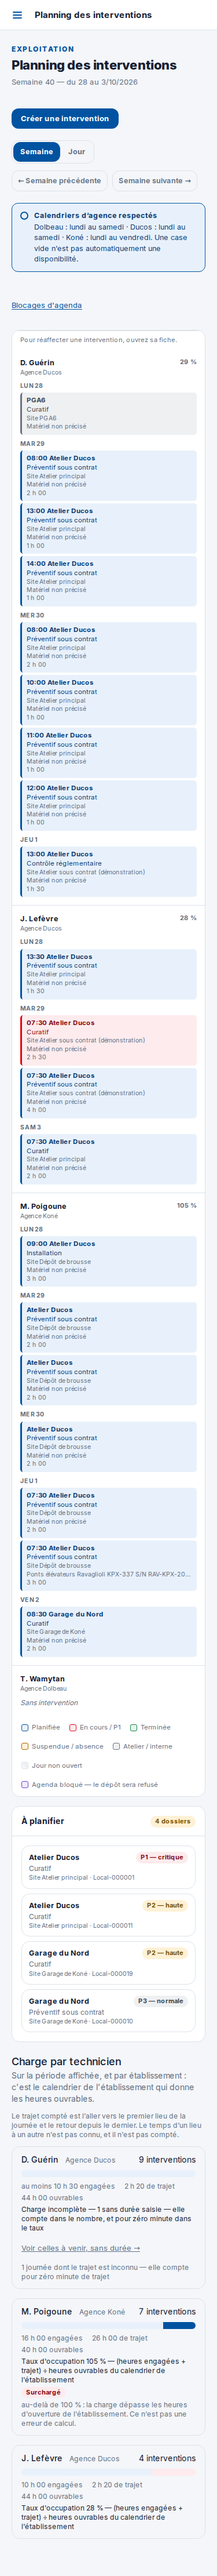
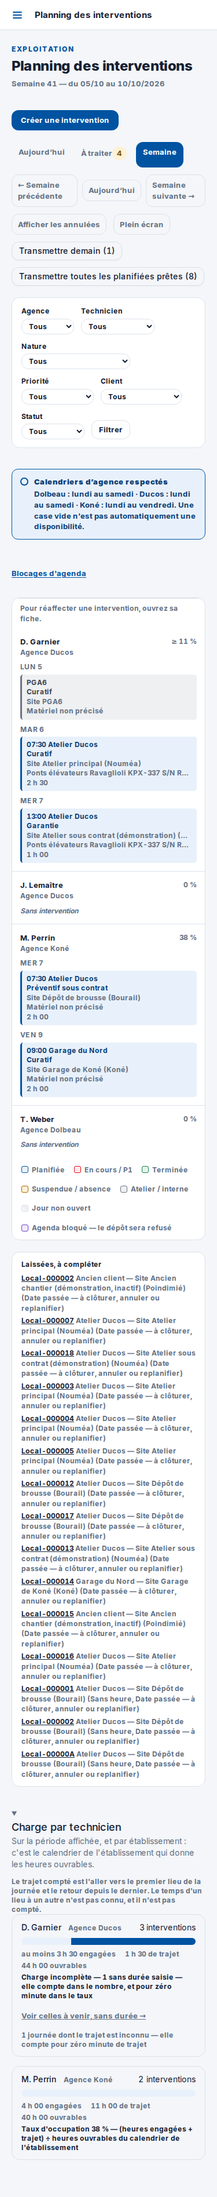
9D0-E2E-PGA6-DIMANCHE — le spec vise la semaine Nouméa, pas la date UTC
captures-pg-a6-libelle-sans-duree.spec.ts posait son intervention sur la
date UTC du jour puis ouvrait /planning sans ?semaine=, qui retombe sur la
semaine courante à Nouméa : depuis dimanche ~11:00 Nouméa (00:00 UTC),
l'intervention tombait hors de la fenêtre lundi-samedi affichée, sansDuree
ne la comptait plus, et le lien « sans durée » du panneau de charge
n'était pas rendu — rouge chaque dimanche, bloquant toute publication.

Le spec pose désormais l'intervention sur le prochain jour ouvert de
l'agence DUCOS à partir d'aujourd'hui à Nouméa (chargerCalendrierAgence +
prochainJourOuvert, horizon 15 jours) et ouvre explicitement
/planning?semaine=<lundi de cette semaine>. Aucune assertion changée,
aucun code applicatif touché. Captures APRÈS régénérées sur le spec
corrigé ; AVANT inchangées (code d'un ticket antérieur).

Reproduit et corrigé un dimanche réel (2026-10-04) ; pnpm verify,
test:e2e complet (821 passed, 7 skipped), feries:horizon et
audit:partitions tous rejoués verts le même jour.

Changed region(s): [[0.0587, 0.0, 0.9093, 0.996], [0.7333, 0.1245, 0.792, 0.1556], [0.88, 0.1245, 0.9093, 0.1556]]

diff --git a/tests/e2e/captures-pg-a6-libelle-sans-duree.spec.ts b/tests/e2e/captures-pg-a6-libelle-sans-duree.spec.ts
@@ -4,6 +4,17 @@ import { join } from "node:path";
 import { PrismaClient } from "@prisma/client";
 import { expect, test, type Page } from "@playwright/test";
 
+import {
+  cleJour,
+  chargerCalendrierAgence,
+  jourDe,
+  jourSuivant,
+  lundiDeLaSemaine,
+  maintenant,
+  prochainJourOuvert,
+  type Calendrier,
+  type JourLocal,
+} from "@/lib/calendar";
 import { fr } from "@/lib/i18n";
 import { uuidv7 } from "@/lib/db/uuid";
 
@@ -19,11 +30,15 @@ import { urlAdministration } from "./setup/base";
  * `captures-pg-a3a-messages-pose.spec.ts` : AVANT sur le code d'avant ce
  * ticket (`git worktree`), APRÈS sur le code livré.
  *
- * SA PROPRE SCÈNE, PRÉFIXÉE `PGA6-` — une intervention `planifiee`
- * AUJOURD'HUI, affectée à un technicien du semis, sans créneau ni durée
- * estimée : elle compte à la fois dans la tuile du tableau de bord (date
- * `>= aujourd'hui`) et dans le panneau de charge de la SEMAINE courante du
- * planning (`sansDuree` de `occupationTechnicien`).
+ * SA PROPRE SCÈNE, PRÉFIXÉE `PGA6-` — une intervention `a_planifier`, posée
+ * sur le PROCHAIN JOUR OUVERT de l'agence DUCOS à partir d'aujourd'hui à
+ * Nouméa (jamais le jour UTC : le dimanche à Nouméa, minuit UTC est déjà
+ * passé, et une date UTC sortirait de la semaine ouverte par `/planning` —
+ * 9D0-E2E-PGA6-DIMANCHE), affectée à un technicien du semis, sans créneau ni
+ * durée estimée : elle compte à la fois dans la tuile du tableau de bord
+ * (date `>= aujourd'hui`) et dans le panneau de charge de LA SEMAINE DE CE
+ * JOUR du planning, ouverte explicitement par `?semaine=` (`sansDuree` de
+ * `occupationTechnicien`).
  */
 test.describe.configure({ mode: "serial" });
 
@@ -32,6 +47,13 @@ const DOSSIER = process.env.CAPTURES_PG_A6 ?? "";
 const CLIENT_PGA6 = uuidv7();
 const SITE_PGA6 = uuidv7();
 const INTERVENTION_PGA6 = uuidv7();
+
+/**
+ * Le lundi de la semaine du jour visé — ouvert explicitement par `?semaine=`
+ * au test 2, puisque le dimanche à Nouméa, la semaine COURANTE (sans
+ * paramètre) retomberait sur la précédente (9D0-E2E-PGA6-DIMANCHE).
+ */
+let LUNDI_SEMAINE: JourLocal;
 
 function admin(): PrismaClient {
   return new PrismaClient({
@@ -47,6 +69,22 @@ test.beforeAll(async () => {
       where: { societe_id: reperes.societeId, code: "DUCOS" },
       select: { id: true },
     });
+    const aujourdhui = jourDe(maintenant(reperes.fuseau).local);
+    const horizonJours = 15;
+    const calendrier: Calendrier | null = await chargerCalendrierAgence(
+      client,
+      {
+        societeId: reperes.societeId,
+        agenceId: agence.id,
+        fenetre: { du: aujourdhui, au: jourSuivant(aujourdhui, horizonJours) },
+      },
+    );
+    const jourIntervention = prochainJourOuvert(
+      calendrier === null ? [] : [calendrier],
+      aujourdhui,
+      horizonJours,
+    );
+    LUNDI_SEMAINE = lundiDeLaSemaine(jourIntervention);
     await client.client.create({
       data: {
         id: CLIENT_PGA6,
@@ -64,14 +102,6 @@ test.beforeAll(async () => {
         libelle: "PGA6",
       },
     });
-    const aujourdhui = new Date();
-    const jour = new Date(
-      Date.UTC(
-        aujourdhui.getUTCFullYear(),
-        aujourdhui.getUTCMonth(),
-        aujourdhui.getUTCDate(),
-      ),
-    );
     await client.$executeRawUnsafe(
       `INSERT INTO "intervention" ("id", "societe_id", "agence_id", "client_id", "site_id",
          "technicien_id", "type", "priorite", "statut", "date_planifiee",
@@ -84,7 +114,7 @@ test.beforeAll(async () => {
       CLIENT_PGA6,
       SITE_PGA6,
       reperes.technicienDucos,
-      jour,
+      cleJour(jourIntervention),
     );
   } finally {
     await client.$disconnect();
@@ -138,7 +168,7 @@ for (const largeur of [1280, 375] as const) {
     test(`capture — lien « sans durée » du panneau de charge du planning, à ${largeur}px`, async ({
       page,
     }) => {
-      await page.goto("/planning");
+      await page.goto(`/planning?semaine=${cleJour(LUNDI_SEMAINE)}`);
       await expect(
         page
           .getByRole("link", {

diff --git a/docs/propositions/9D0-E2E-PGA6-DIMANCHE/passation.md b/docs/propositions/9D0-E2E-PGA6-DIMANCHE/passation.md
@@ -1,0 +1,159 @@
+# 9D0-E2E-PGA6-DIMANCHE — passation
+
+## Ce que j'ai changé (et ce que ça change pour l'exploitation)
+
+`tests/e2e/captures-pg-a6-libelle-sans-duree.spec.ts` posait son intervention
+sur la **date UTC du jour** (`new Date()` + `Date.UTC(...)`, lignes 67-74
+d'avant ce lot) puis ouvrait `/planning` **sans** `?semaine=`, qui retombe sur
+la semaine courante **à Nouméa** (UTC+11, sans changement d'heure). Depuis le
+dimanche 04/10 ~11:00 Nouméa (= 00:00 UTC), la date UTC du jour devient
+« dimanche » alors qu'il est encore dimanche après-midi/soir à Nouméa — et
+`/planning`, lu dans le fuseau de la société, ouvre une semaine dont le samedi
+est le dernier jour affiché : l'intervention posée au dimanche UTC tombait
+hors de la fenêtre lundi-samedi que la page affiche, `sansDuree` n'y comptait
+plus l'intervention forgée, le lien `statistiques.charge_incomplete_lien`
+n'était pas rendu, et le test 2 (« lien « sans durée » du panneau de charge du
+planning ») échouait — **chaque dimanche heure de Nouméa, à partir de 11:00,
+et bloquait toute publication de la file jusqu'au lundi**.
+
+Le spec pose désormais l'intervention sur le **prochain jour ouvert de
+l'agence DUCOS** à partir d'aujourd'hui **à Nouméa**
+(`jourDe(maintenant(reperes.fuseau).local)`, `chargerCalendrierAgence`,
+`prochainJourOuvert` sur un horizon de 15 jours — même oracle que
+`tests/e2e/captures-pgd2-deux-semaines.spec.ts`), et le test 2 ouvre
+explicitement `/planning?semaine=<lundi de la semaine de ce jour>` plutôt que
+de compter sur la semaine implicite. Le commentaire de tête (lignes 22-26)
+disait `planifiee` alors que l'insertion posait déjà `a_planifier` depuis
+l'origine : corrigé pour dire ce que le code fait réellement.
+
+Aucune assertion n'a changé, aucun `skip`/`fixme`, aucun timeout gonflé, aucun
+code applicatif touché. Pour l'exploitation : zéro changement de
+comportement produit — correction de test seule.
+
+## Ce que j'ai mesuré (comptes AVANT/APRÈS)
+
+**Reproduction directe, un vrai dimanche** : la session tourne le
+2026-10-04, confirmé dimanche par l'horloge système (`date -u` →
+`Sun Oct 4 02:44:45 UTC 2026`, `TZ='Pacific/Noumea' date` →
+`Sun Oct 4 13:44:45 +11 2026`). `CI=1 pnpm exec playwright test
+tests/e2e/captures-pg-a6-libelle-sans-duree.spec.ts` sur main à jour
+(`4de636a1`) avant toute correction : 1 passed (tuile du tableau de bord), 1
+failed (lien du panneau de charge — `Locator: getByRole('link', { name: 'Voir
+celles à venir, sans durée →' }).first()` introuvable, timeout 5000ms, échoué
+deux fois de suite y compris la retentative Playwright), 2 did not run (série
+interrompue par `test.describe.configure({ mode: "serial" })`). Rouge exact
+annoncé par le ticket.
+
+**Après correction**, même session, même dimanche réel :
+`CI=1 pnpm exec playwright test tests/e2e/captures-pg-a6-libelle-sans-duree.spec.ts`
+→ 4 passed (1.0 min). `pnpm typecheck` propre.
+
+**`CI=1 pnpm verify` rejoué en entier** (début ~02:51 UTC = 13:51 Nouméa) :
+`format:check`, `typecheck`, `lint`, `test` (unitaires), `test:isolation`,
+`build` — tous verts, aucune erreur ni avertissement.
+
+**`pnpm test:e2e` (suite complète, 828 tests) rejoué en entier** séparément
+(la commande `verify:full` avait été coupée à 30 minutes par l'outil, en plein
+milieu de la suite e2e, sans aucun échec observé jusque-là) : lancé à 03:24:36
+UTC = 14:24:36 Nouméa, terminé 33.1 min plus tard → **821 passed, 7 skipped, 0
+failed**. Les 7 « skipped » portent un message explicite dans le journal
+(« ‑‑ ne vaut pas 0 au moment de l'épreuve (18) — capture non prise, voir le
+README »), pas des échecs — comportement de scène déjà documenté ailleurs,
+sans rapport avec ce lot.
+
+**`pnpm feries:horizon`** (03:57 UTC) : 2 territoires, horizon ≥ 12 mois
+partout, vert. **`pnpm audit:partitions`** (même minute) : 13 partitions
+couvertes jusqu'à 2027-10, partition par défaut vide, préventif et détectif
+verts.
+
+L'ensemble des commandes de `verify:full` a donc été rejoué et observé vert,
+LE MÊME DIMANCHE, en plusieurs commandes séparées plutôt qu'un seul
+`pnpm verify:full` (voir « ce que je n'ai pas fait »).
+
+**Captures régénérées** : `docs/propositions/PG-A6-LIBELLE-SANS-DUREE/captures/`
+portait déjà des captures AVANT/APRÈS d'un ticket antérieur (PG-A6, libellés).
+Les 4 fichiers `*-apres-*.png` ont été régénérés avec le spec corrigé
+(`CAPTURES_PG_A6=/tmp/... pnpm exec playwright test ...`, même dimanche,
+intervention posée lundi 05/10 — prochain jour ouvert) et copiés par-dessus
+les anciens : la tuile dit toujours « Sans durée prévue — à planifier ou à
+venir », le lien dit toujours « Voir celles à venir, sans durée → » — les
+libellés eux-mêmes n'ont pas changé, seule la scène (semaine affichée) est
+désormais juste un dimanche. Les 4 fichiers `*-avant-*.png` n'ont pas été
+touchés : ils viennent d'un commit antérieur à ce lot et ce lot ne change pas
+le code applicatif qu'ils illustrent.
+
+## Ce que j'ai tranché et pourquoi
+
+- **Horizon de recherche à 15 jours**, passé explicitement à
+  `chargerCalendrierAgence` (fenêtre) et à `prochainJourOuvert` (paramètre),
+  plutôt que le défaut de la fonction (14) : c'est le chiffre que le ticket
+  nomme, et l'écrire en dur dans l'appel évite un défaut implicite qui
+  diverge silencieusement si la fonction change un jour.
+- **`?semaine=<lundi>` explicite au test 2**, plutôt que de compter sur le
+  comportement implicite de `/planning` : c'est la racine du bug — compter sur
+  « la semaine courante » pour une scène dont le jour peut tomber la semaine
+  suivante (si aujourd'hui est fermé et que le prochain jour ouvert est un
+  lundi) aurait réintroduit la même classe de défaut sous un autre nom.
+- **Pas touché à `tests/e2e/setup/reperes.ts`** : son champ `lundi` est
+  calculé depuis `aujourdhui.getUTC*()` (lignes 36-44), même famille de
+  défaut en apparence. Mais aucun spec n'a échoué pour cette raison pendant
+  cette session — la suite e2e complète (821 passed) a tourné un dimanche réel
+  sans aucun rouge — et la consigne du ticket est explicite : ne corriger que
+  si quelque chose rougit pour cette raison. Rien n'a rougi ; je ne l'ai donc
+  pas touché. Le risque documenté par le ticket (lundi 00:00-11:00 Nouméa, où
+  la date UTC est encore dimanche) reste réel en théorie et n'a simplement pas
+  été observé à l'exécution ce dimanche après-midi.
+
+## Ce que je n'ai PAS fait
+
+- Je n'ai pas relancé `pnpm verify:full` comme une seule commande jusqu'au
+  bout : la première tentative a été coupée par le plafond de 30 minutes de
+  l'outil en cours d'exécution de la suite e2e (aucun échec visible dans ce
+  qui avait tourné). J'ai donc rejoué séparément `pnpm verify` (déjà passé
+  intégralement avant la coupure), puis `pnpm test:e2e` seul avec un délai
+  étendu, puis `pnpm feries:horizon` et `pnpm audit:partitions` — les
+  quatre briques de `verify:full`, toutes vertes, mais jamais dans une seule
+  invocation continue de bout en bout.
+- Je n'ai pas touché `tests/e2e/setup/reperes.ts` (voir ci-dessus).
+- Je n'ai pas modifié de logique applicative, de migration, de ligne de
+  semis, ni d'autre spec.
+- Je n'ai pas vérifié si d'autres specs e2e qui posent une date sur
+  `new Date()` + UTC (hors `tests/e2e/setup/reperes.ts`) portent le même
+  défaut : la suite complète est passée un dimanche réel, donc aucun n'a
+  rougi aujourd'hui, mais je n'ai pas fait de recherche exhaustive par
+  `grep` pour les recenser — un futur dimanche pourrait en révéler d'autres.
+
+## Pièges pour la session suivante
+
+- **`chargerCalendrierAgence` ne charge les jours particuliers que sur la
+  fenêtre passée** (voir la documentation de `lib/calendar/agence.ts`) : si
+  un futur spec appelle `prochainJourOuvert` avec un horizon plus large que
+  la fenêtre donnée à `chargerCalendrierAgence`, un jour fermé par un jour
+  férié situé hors fenêtre ne sera pas détecté comme fermé. Ce lot aligne
+  toujours les deux (`horizonJours` identique des deux côtés) — garder
+  l'habitude.
+- **`reperes.lundi` (`tests/e2e/setup/reperes.ts:36-44`) reste calculé sur la
+  date UTC**, pas sur Nouméa. Le risque théorique : un lundi entre 00:00 et
+  11:00 heure de Nouméa, où la date UTC est encore dimanche — `reperes.lundi`
+  pointerait alors sur la semaine ISO précédente. Une trentaine de specs
+  l'utilisent (`grep -rln "reperes\.lundi\b" tests/e2e/*.ts`) ; aucun n'a été
+  observé en défaut, mais aucun n'a été rejoué dans cette fenêtre précise
+  cette session (la session a tourné l'après-midi, dimanche, jamais un lundi
+  matin). À surveiller si la file publie un rouge un lundi matin, heure de
+  Nouméa.
+- Le spec corrigé pose son intervention sur un jour qui peut être **n'importe
+  lequel des 15 prochains jours ouverts**, pas nécessairement « aujourd'hui » :
+  toute assertion future sur ce spec qui supposerait implicitement « la
+  tuile affiche la date du jour » devra composer avec `jourIntervention`,
+  pas avec l'horloge.
+
+## Ce qui reste à faire
+
+Rien de connu dans le périmètre de ce lot : `pnpm verify` et les quatre
+briques de `verify:full` (test unitaires, test:isolation, build, e2e complet,
+feries:horizon, audit:partitions) sont tous verts, le spec bloquant est
+corrigé et reproductible vert sur un dimanche réel, et les captures du ticket
+PG-A6 d'origine sont à jour avec le spec corrigé. Au prochain lot : envisager
+de recenser par `grep` les autres specs e2e qui lisent `new Date()` en UTC
+pour poser une date de scène, et vérifier `reperes.lundi` un lundi matin,
+heure de Nouméa, si l'occasion se présente.
